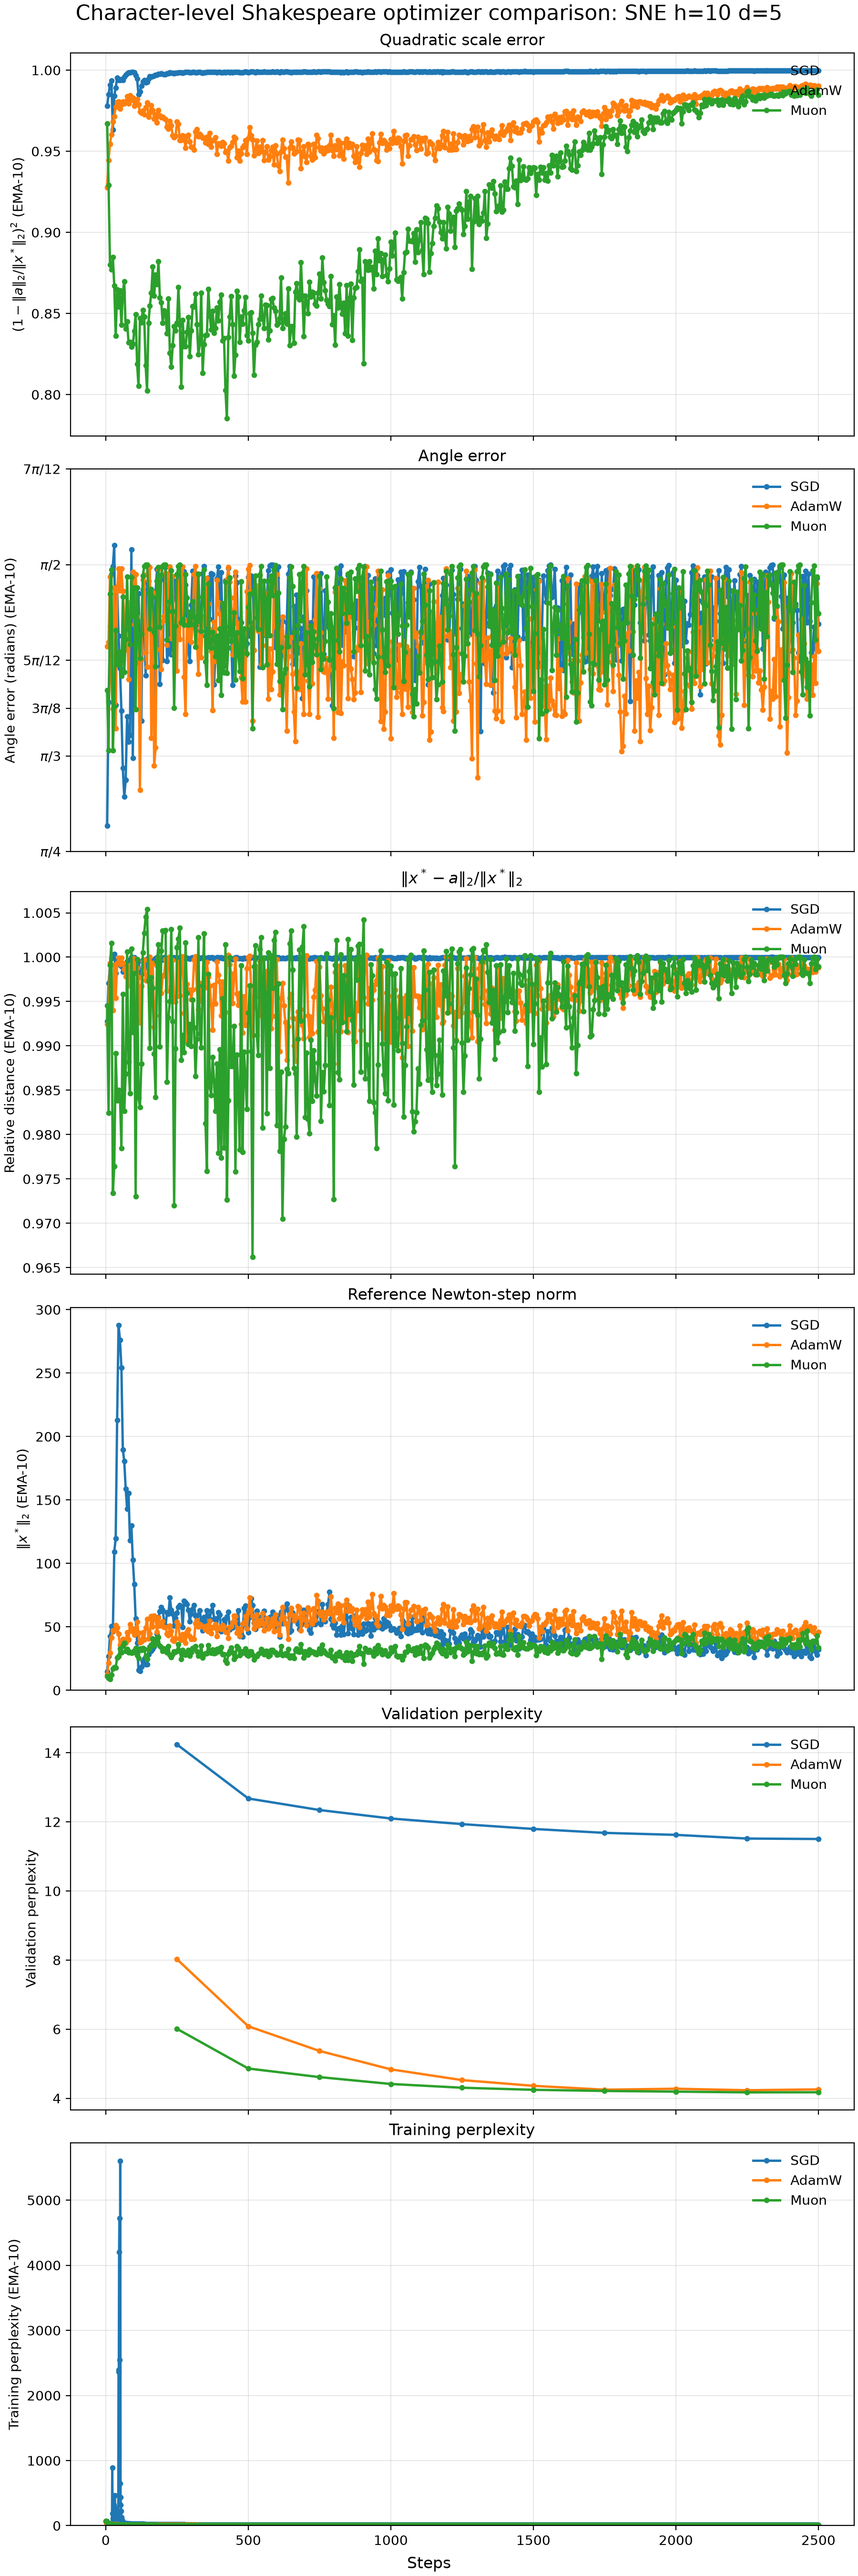
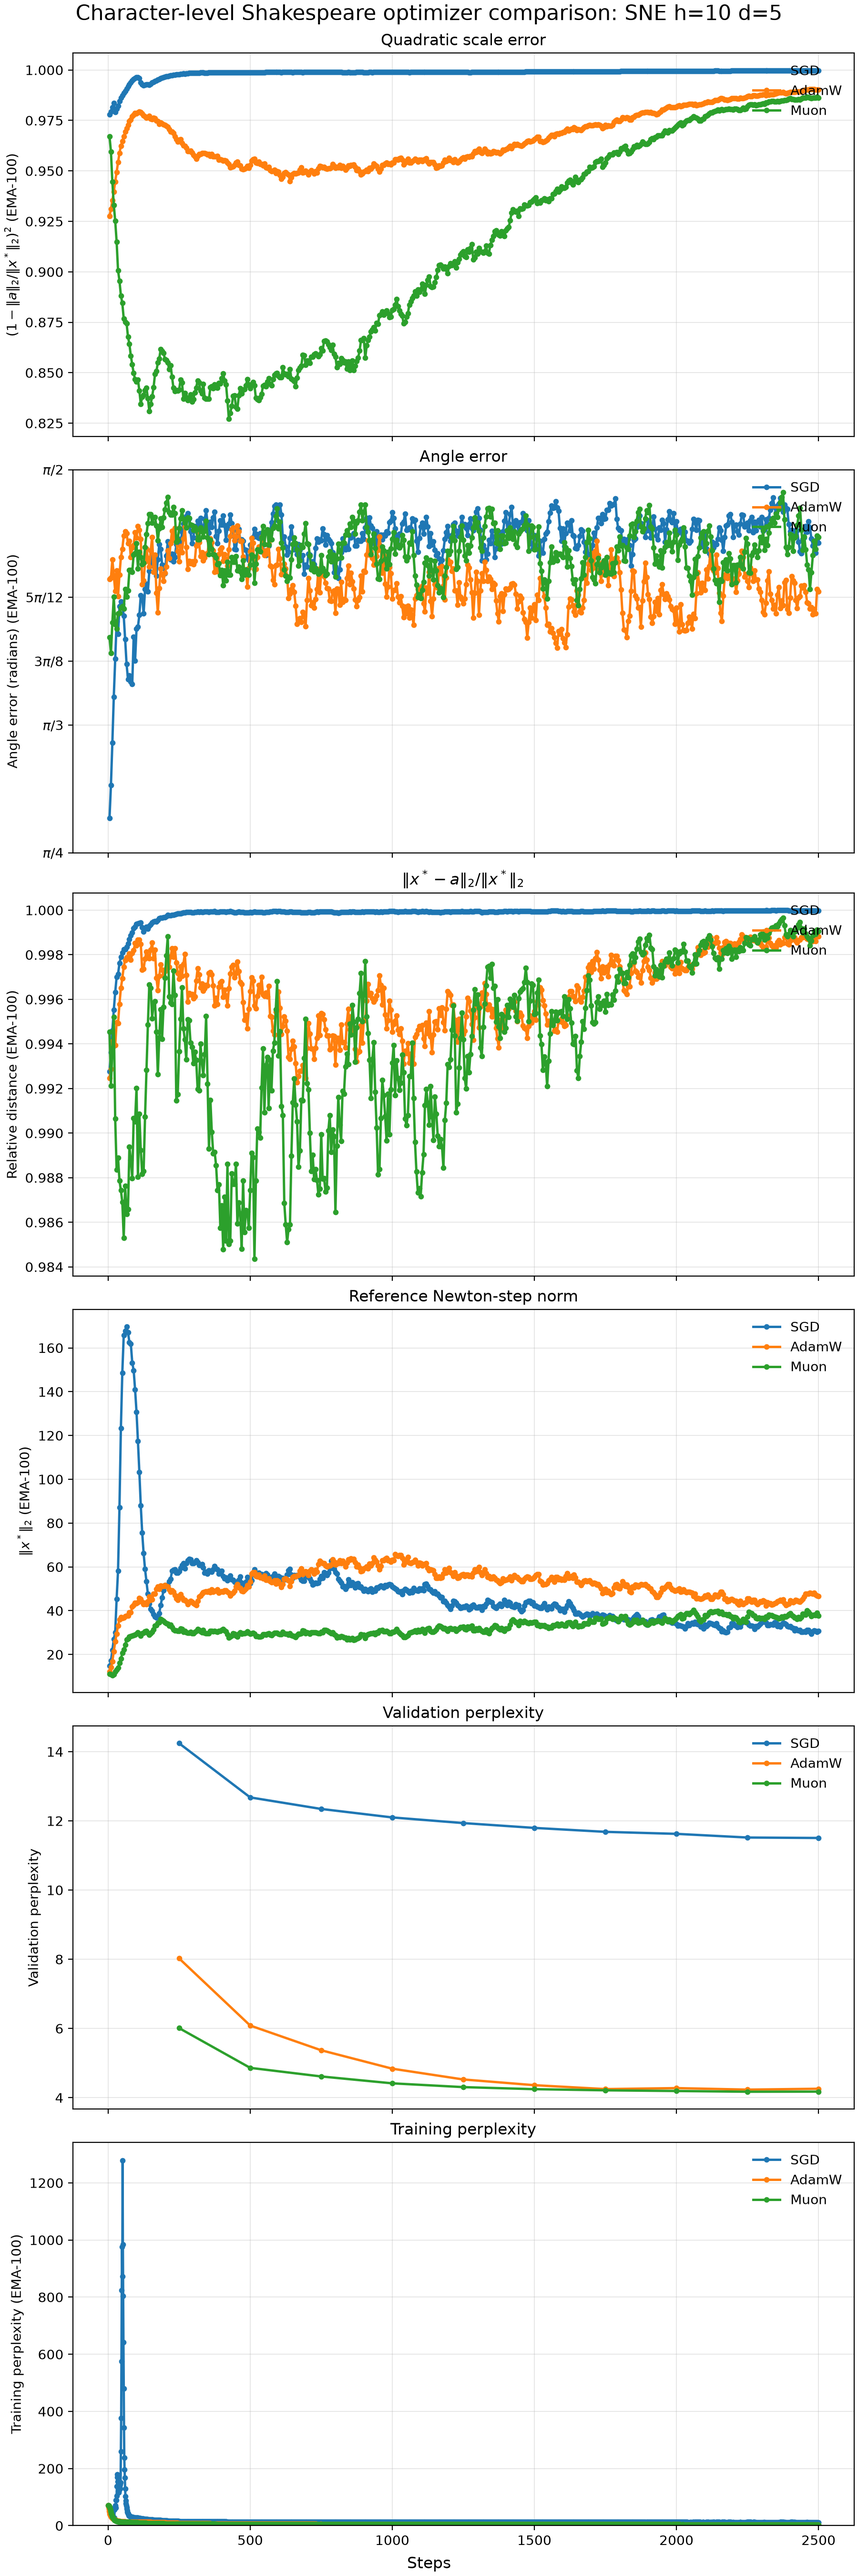
Use EMA-100 for nanoGPT dashboard plot

diff --git a/index.html b/index.html
@@ -317,7 +317,7 @@
             step, geometry every five steps, and validation cross-entropy over 200
             batches every 250 steps. The model remains in training mode while an RNG
             snapshot replays the forward-pass dropout realization inside estimator
-            closures. Geometry and training use EMA-10 (\(\lambda^{10}=10^{-8}\)), validation remains raw, and
+            closures. Geometry and training use EMA-100 (\(\lambda^{100}=10^{-8}\)), validation remains raw, and
             both task losses are shown as perplexity. Scale error is
             \((1-\|a\|_2/\|x^*\|_2)^2\).
           </p>

diff --git a/scripts/build_dashboard_plots.py b/scripts/build_dashboard_plots.py
@@ -262,7 +262,7 @@ SECTIONS = (
         output_dir="assets/plots/language-modeling",
         figures=(shakespeare_comparison(),),
         metrics=LANGUAGE_METRICS,
-        window_size=10,
+        window_size=100,
         perplexity=True,
     ),
 )

diff --git a/README.md b/README.md
@@ -16,9 +16,8 @@ separate six-row figure. It writes the exact source paths and numeric limits to
 `assets/plots/manifest.json`. Validation curves remain unsmoothed, and scale
 error is always quadratic. Exponential moving average is the default, with
 `decay = epsilon ** (1 / window_size)` and `epsilon = 1e-8`; simple trailing
-moving average remains selectable. CIFAR sections use EMA-100; the
-character-level Shakespeare section uses EMA-10 and displays task losses as
-perplexity.
+moving average remains selectable. All active sections use EMA-100; the
+character-level Shakespeare section displays task losses as perplexity.
 
 The figures used by the original dashboard are retained verbatim under
 `assets/archive/legacy-plots/` and are not referenced by the active page.
